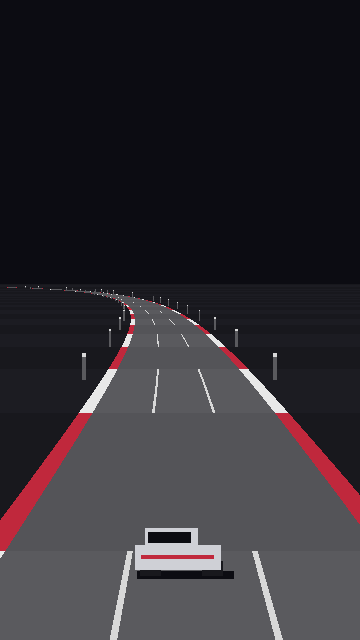
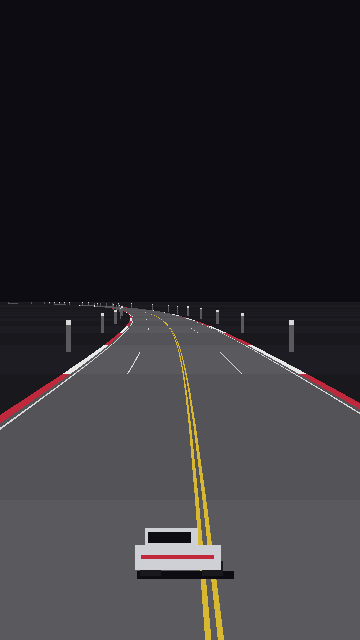
T24 WIP: low camera, 4 lanes, realistic markings, kerbs only in corners
Blocked: P7 continuity tolerance (0.067 > 0.05 px) and e2e ?tune= fovDeg 90
fail with height 320; see report.

diff --git a/src/render/roadMesh.ts b/src/render/roadMesh.ts
@@ -26,6 +26,17 @@ const RUMBLE_DARK = 9;
 const VERGE_LIGHT = 12;
 const VERGE_DARK = 15;
 const LANE = 18;
+const CENTRE = 21;
+const SHOULDER = 24;
+
+// Marking layout on top of the projection's RoadConfig; all sizes are fractions of halfWidth.
+export interface RoadMeshConfig extends RoadConfig {
+  laneDash: { on: number; off: number }; // segments painted / skipped per lane-line dash
+  centreGap: number; // gap between the two lines of the double centre line
+  edgeLineInset: number; // edge line distance from the asphalt edge
+  edgeLineWidth: number;
+  kerbMinCurve: number; // |curve| at or above which the kerb gets red/white colours
+}
 
 export function writeHex(out: Float32Array, at: number, hex: string): void {
   const v = parseInt(hex.slice(1), 16);
@@ -36,10 +47,12 @@ export function writeHex(out: Float32Array, at: number, hex: string): void {
 
 /**
  * Grey road: one dynamic BufferGeometry, one draw call.
- * Per strip n (between projected lines n and n+1): full-width verge, rumble bands
- * outside the asphalt edge (±w .. ±w(1+rumbleWidth)), asphalt ±w, lane markers on light stripes.
- * Verge overlaps everything and sits at the strip's depth; asphalt/rumble are one micro-step
- * nearer, markers two, so depth testing layers them without per-pixel sorting.
+ * Per strip n (between projected lines n and n+1): full-width verge, kerb bands outside the
+ * asphalt edge (±w .. ±w(1+rumbleWidth); red/white only where |curve| >= kerbMinCurve, shoulder
+ * colour elsewhere), asphalt ±w, solid edge lines, dashed lane lines and, with an even lane
+ * count, a solid double centre line.
+ * Verge overlaps everything and sits at the strip's depth; asphalt/kerb are one micro-step
+ * nearer, markings two, so depth testing layers them without per-pixel sorting.
  */
 export class RoadMesh {
   readonly mesh: Mesh<BufferGeometry, ShaderMaterial>;
@@ -47,7 +60,7 @@ export class RoadMesh {
   private readonly col: Float32Array;
   private readonly posAttr: BufferAttribute;
   private readonly colAttr: BufferAttribute;
-  private readonly rgb = new Float32Array(21);
+  private readonly rgb = new Float32Array(27);
   private readonly screenW: number;
   private readonly invW: number;
   private readonly invH: number;
@@ -57,10 +70,11 @@ export class RoadMesh {
   constructor(
     // horizon is read live in update() (dev tuning panel); drawDistance sizes the buffers here.
     private readonly camera: CameraConfig,
-    private readonly road: RoadConfig,
+    private readonly road: RoadMeshConfig,
     palette: Palette,
   ) {
-    const quadsPerSegment = 1 + 2 + 1 + (road.lanes - 1);
+    // verge, 2 kerbs, asphalt, 2 edge lines, lane lines (the centre one doubled)
+    const quadsPerSegment = 1 + 2 + 1 + 2 + road.lanes;
     const maxQuads = camera.drawDistance * quadsPerSegment;
     this.strips = camera.drawDistance;
     this.screenW = camera.screenWidth;
@@ -74,6 +88,8 @@ export class RoadMesh {
     writeHex(this.rgb, VERGE_LIGHT, palette.verge[0]!);
     writeHex(this.rgb, VERGE_DARK, palette.verge[1]!);
     writeHex(this.rgb, LANE, palette.lane);
+    writeHex(this.rgb, CENTRE, palette.centreLine);
+    writeHex(this.rgb, SHOULDER, palette.shoulder);
 
     this.pos = new Float32Array(maxQuads * 4 * 3);
     this.col = new Float32Array(maxQuads * 4 * 3);
@@ -107,6 +123,8 @@ export class RoadMesh {
     const road = this.road;
     const horizonY = this.camera.horizon * this.camera.screenHeight;
     const step = 2 / this.strips;
+    const dashPeriod = road.laneDash.on + road.laneDash.off;
+    const centreLane = road.lanes % 2 === 0 ? road.lanes / 2 : -1;
     const last = Math.min(proj.count - 1, this.strips);
     this.quads = 0;
     for (let n = 0; n < last; n++) {
@@ -127,17 +145,44 @@ export class RoadMesh {
 
       const r0 = w0 * road.rumbleWidth;
       const r1 = w1 * road.rumbleWidth;
-      const rumble = light ? RUMBLE_LIGHT : RUMBLE_DARK;
-      this.quad(x0 - w0 - r0, x0 - w0, y0, x1 - w1 - r1, x1 - w1, y1, zRoad, rumble);
-      this.quad(x0 + w0, x0 + w0 + r0, y0, x1 + w1, x1 + w1 + r1, y1, zRoad, rumble);
-      this.quad(x0 - w0, x0 + w0, y0, x1 - w1, x1 + w1, y1, zRoad, light ? ASPHALT_LIGHT : ASPHALT_DARK);
+      const corner = Math.abs(proj.curve[n]!) >= road.kerbMinCurve;
+      const kerb = corner ? (light ? RUMBLE_LIGHT : RUMBLE_DARK) : SHOULDER;
+      this.quad(x0 - w0 - r0, x0 - w0, y0, x1 - w1 - r1, x1 - w1, y1, zRoad, kerb);
+      this.quad(x0 + w0, x0 + w0 + r0, y0, x1 + w1, x1 + w1 + r1, y1, zRoad, kerb);
+      this.quad(
+        x0 - w0,
+        x0 + w0,
+        y0,
+        x1 - w1,
+        x1 + w1,
+        y1,
+        zRoad,
+        light ? ASPHALT_LIGHT : ASPHALT_DARK,
+      );
 
-      if (light) {
-        const h0 = (w0 * road.laneMarkerWidth) / 2;
-        const h1 = (w1 * road.laneMarkerWidth) / 2;
-        for (let lane = 1; lane < road.lanes; lane++) {
-          const c0 = x0 - w0 + (2 * w0 * lane) / road.lanes;
-          const c1 = x1 - w1 + (2 * w1 * lane) / road.lanes;
+      // Edge lines: inner side at inset + width from the asphalt edge.
+      const ei0 = w0 * (1 - road.edgeLineInset - road.edgeLineWidth);
+      const ei1 = w1 * (1 - road.edgeLineInset - road.edgeLineWidth);
+      const eo0 = w0 * (1 - road.edgeLineInset);
+      const eo1 = w1 * (1 - road.edgeLineInset);
+      this.quad(x0 - eo0, x0 - ei0, y0, x1 - eo1, x1 - ei1, y1, zMark, LANE);
+      this.quad(x0 + ei0, x0 + eo0, y0, x1 + ei1, x1 + eo1, y1, zMark, LANE);
+
+      const h0 = (w0 * road.laneMarkerWidth) / 2;
+      const h1 = (w1 * road.laneMarkerWidth) / 2;
+      const dash = proj.segment[n]! % dashPeriod < road.laneDash.on;
+      for (let lane = 1; lane < road.lanes; lane++) {
+        const c0 = x0 - w0 + (2 * w0 * lane) / road.lanes;
+        const c1 = x1 - w1 + (2 * w1 * lane) / road.lanes;
+        if (lane === centreLane) {
+          // Two lines, each laneMarkerWidth wide, centreGap apart.
+          const g0 = (w0 * road.centreGap) / 2;
+          const g1 = (w1 * road.centreGap) / 2;
+          const o0 = g0 + 2 * h0;
+          const o1 = g1 + 2 * h1;
+          this.quad(c0 - o0, c0 - g0, y0, c1 - o1, c1 - g1, y1, zMark, CENTRE);
+          this.quad(c0 + g0, c0 + o0, y0, c1 + g1, c1 + o1, y1, zMark, CENTRE);
+        } else if (dash) {
           this.quad(c0 - h0, c0 + h0, y0, c1 - h1, c1 + h1, y1, zMark, LANE);
         }
       }

diff --git a/tests/render/projection.test.ts b/tests/render/projection.test.ts
@@ -74,8 +74,8 @@ describe('P2 monotonic projection', () => {
     }
   });
   it('last line is within 5 px below the horizon (real config)', () => {
-    // f = 180/tan(40deg) = 214.5; d0 = 214.5*720/358.4 = 430.9
-    // n=300: dz = 430.9 + 300*200 = 60431; y-horizonY = 214.5*720/60431 = 2.56 px
+    // f = 180/tan(40deg) = 214.5; d0 = 214.5*320/339.2 = 202.4
+    // n=300: dz = 202.4 + 300*200 = 60202; y-horizonY = 214.5*320/60202 = 1.14 px
     const p = run(makeStraightTrack(50), 0, 0);
     const last = p.y[p.count - 1]! - horizonYReal;
     expect(last).toBeGreaterThan(0);
@@ -90,11 +90,11 @@ describe('P2 monotonic projection', () => {
 
 describe('P3 frac = 0 exact values', () => {
   it('y_0 = H and w_0 = halfWidth*(H-horizonY)/height (real config)', () => {
-    // w_0 = 500*(640-281.6)/720 = 248.8889 (author's playtest 2026-11-19: wider road, lower camera)
+    // w_0 = 500*(640-300.8)/320 = 530 (author's second feedback 2026-11-19: camera barely above the roof)
     const p = run(makeStraightTrack(50), 5, 0);
     near(p.y[0]!, CAM.screenHeight, 1e-3);
     near(p.w[0]!, (ROAD.halfWidth * (CAM.screenHeight - horizonYReal)) / CAM.height, 1e-3);
-    near(p.w[0]!, 248.8889, 1e-3);
+    near(p.w[0]!, 530, 1e-3);
   });
   it('inline config hand values', () => {
     // dz_n = 200 + 100n; scale_n = 100/dz_n; y = 50 + scale*100; w = scale*40

diff --git a/src/data/render.ts b/src/data/render.ts
@@ -1,5 +1,6 @@
-import type { CameraConfig, RoadConfig } from '../render/projection';
+import type { CameraConfig } from '../render/projection';
 import type { RibbonMapRenderConfig } from '../render/ribbonMapMesh';
+import type { RoadMeshConfig } from '../render/roadMesh';
 import type { SpritesConfig } from '../render/worldSprites';
 import camera from './camera.json';
 import palette from './palette.json';
@@ -13,6 +14,8 @@ export interface Palette {
   asphalt: string[];
   rumble: string[];
   lane: string;
+  centreLine: string;
+  shoulder: string;
   verge: string[];
   player: string;
   carShadow: string;
@@ -31,7 +34,7 @@ export interface Palette {
 }
 
 export const cameraConfig: CameraConfig = camera;
-export const roadConfig: RoadConfig = road;
+export const roadConfig: RoadMeshConfig = road;
 export const paletteConfig: Palette = palette;
 export const spritesConfig: SpritesConfig = sprites;
 export const ribbonMapConfig: RibbonMapRenderConfig = ribbonMap;

diff --git a/src/render/projection.ts b/src/render/projection.ts
@@ -28,6 +28,7 @@ export interface Projection {
   w: Float32Array; // road half-width on screen, px
   scale: Float32Array; // px per world unit
   segment: Int32Array; // wrapped track segment index of this line
+  curve: Float32Array; // curve of that track segment
 }
 
 function focalPx(camera: CameraConfig): number {
@@ -58,6 +59,7 @@ export function createProjection(camera: CameraConfig, road: RoadConfig): Projec
     w: new Float32Array(n),
     scale: new Float32Array(n),
     segment: new Int32Array(n),
+    curve: new Float32Array(n),
   };
 }
 
@@ -89,6 +91,7 @@ export function project(
     const seg = (base + n) % len;
     const scale = f / (d0 + (n - frac) * road.segmentLength);
     out.segment[n] = seg;
+    out.curve[n] = segs[seg]!.curve;
     out.scale[n] = scale;
     out.y[n] = horizonY + scale * camera.height;
     out.w[n] = scale * road.halfWidth;

diff --git a/docs/balance.md b/docs/balance.md
@@ -59,3 +59,14 @@
 | 2026-11-19 | `sprites.json`: `smokeSize`, `smokeGrow`, `smokeShrink`, `smokeBack`, `smokeRise`, `smokeSpread`, `smokeWheelX`, `smokeJitter` | — | 0.16, 1.4, 0.7, 1.6, 0.6, 0.7, 0.36, 0.1 [старт] | R24: облачко 0.16 ширины машины растёт до ×2.4, после 70% жизни сжимается в 0, уходит назад/вниз по экрану, вверх и наружу дрифта; 0.3 / 1.5 давали сплошную серую плиту под машиной; директор 2026-11-19 | скриншот `drift-right` |
 | 2026-11-19 | `palette.json`: `smoke` | — | #a8a8ae [старт] | R24: дым светло-серый, темнее белого поребрика (#e8e8e8) и машины (#cfd0d6) | скриншот `drift-right` |
 | 2026-11-19 | `tunables.json`: новые `input.touch.autoDriftSteer`, `input.touch.autoDriftRelease`, `sprites.drift.yawMax`, `sprites.drift.yawMin`, `sprites.drift.cameraOffset`, флаг `sprites.drift.smoke` on/off | — | стартовые диапазоны | H3 C и R24 настраиваются в dev-панели | тесты `tests/dev` |
+| 2026-11-19 | `camera.json`: `height` | 720 | 320 | второй отзыв автора 2026-11-19 (сравнение со Slipstream): камера чуть выше крыши машины, дорога шире экрана; 340 из постановки давали 404.7 px, цель 420–450; ниже 317 при FOV 80 и горизонте 0.47 `d0` < `segmentLength` (линия 0 за камерой) | полуширина дороги на уровне низа машины (y = 576) = 500·(576−300.8)/320 = 430 px при половине экрана 180 (дорога шире экрана в 2.4 раза), полоса 215 px; внизу кадра `w0` = 530 px; `d0` = 202.4; скриншоты `straight`, `curve-left` |
+| 2026-11-19 | `camera.json`: `horizon` | 0.44 | 0.47 | второй отзыв автора 2026-11-19: горизонт ближе к середине экрана, y = 300.8 px из 640 | скриншот `straight` |
+| 2026-11-19 | `road.json`: `lanes` | 3 | 4 | второй отзыв автора 2026-11-19: четыре полосы, как в Slipstream; осевая между 2-й и 3-й полосой — двойная сплошная | скриншот `straight` |
+| 2026-11-19 | `road.json`: `rumbleWidth` | 0.15 | 0.07 | второй отзыв автора 2026-11-19: бордюр уже и только в поворотах (см. `kerbMinCurve`), на прямых — полоса цвета `shoulder` | 30 px у машины; скриншоты `straight`, `curve-left` |
+| 2026-11-19 | `road.json`: `laneMarkerWidth` | 0.03 | 0.012 | второй отзыв автора 2026-11-19: разметка тонкая, реалистичная; ширина одной линии, в том числе каждой из двух линий осевой | ≈5 px у машины; скриншот `straight` |
+| 2026-11-19 | `road.json`: `laneDash` | — | on 2 / off 4 сегмента [старт] | второй отзыв автора 2026-11-19: прерывистые линии полос, разрыв длиннее штриха | скриншот `straight` |
+| 2026-11-19 | `road.json`: `centreGap` | — | 0.012 [старт] | второй отзыв автора 2026-11-19: зазор между линиями двойной осевой | скриншот `straight` |
+| 2026-11-19 | `road.json`: `edgeLineInset` / `edgeLineWidth` | — | 0.03 / 0.015 [старт] | второй отзыв автора 2026-11-19: сплошная белая краевая линия, отступ от края асфальта | скриншот `straight` |
+| 2026-11-19 | `road.json`: `kerbMinCurve` | — | 1 [старт] | второй отзыв автора 2026-11-19: красно-белый бордюр только на сегментах с \|curve\| ≥ 1 (easy 1.25 уже с бордюром) | скриншоты `curve-left`, `curve-right` |
+| 2026-11-19 | `palette.json`: `centreLine` / `shoulder` | — | #d8b830 / #2a2a31 [старт] | второй отзыв автора 2026-11-19: жёлтая двойная осевая; обочина на прямых чуть светлее земли (#1c1c22) | скриншот `straight` |
+| 2026-11-19 | `tunables.json`: `camera.height` диапазон | 650…1600 | 320…1600; `camera.fovDeg` 60…100 → 60…80; `camera.horizon` 0.25…0.5 → 0.465…0.5 | второй отзыв автора 2026-11-19: 320 должно входить в диапазон; тест углов диапазона требует `d0` > `segmentLength` во всех углах — при высоте 320 это возможно только при FOV ≤ 80 и горизонте ≥ 0.464 | тесты `tests/dev`; e2e `?tune=` с `camera.fovDeg` 90 падает (вне диапазона) |

diff --git a/docs/art-bible.md b/docs/art-bible.md
@@ -6,7 +6,7 @@
 Dark Psychedelic Arcade Racing. Референсы: Vermis, LSD: Dream Emulator — слои 0–2; Killer7 (плоские заливки, 2–3 тона на объект) — слои 2–4; Wipeout — знаки, шевроны и HUD как единая графическая система.
 
 ## Правила читаемости [старт]
-- Дорога — средний тон. Rumble-полосы — самые светлые и насыщенные пиксели кадра.
+- Дорога — средний тон, разметка тонкая и реалистичная (второй отзыв автора 2026-11-19): прерывистые белые линии полос, двойная жёлтая осевая, сплошная белая краевая. Красно-белый бордюр — только в поворотах (|curve| ≥ `kerbMinCurve`), там он самые светлые и насыщенные пиксели кадра; на прямых вместо него тёмная обочина.
 - Окружение тёмное, низконасыщенное. 2–3 кислотных цвета зарезервированы под геймплей: соперники, шевроны, буст.
 - Тест: чёрно-белый скриншот на скорости читается как «дорога, край, машины».
 - Внутреннее разрешение 360×640, nearest-апскейл.
@@ -15,9 +15,11 @@ Dark Psychedelic Arcade Racing. Референсы: Vermis, LSD: Dream Emulator 
 | Роль | Цвет |
 | --- | --- |
 | Асфальт (чередование) | `#5a5a5e` / `#545458` |
-| Rumble | `#e8e8e8` / `#c0283c` |
-| Разметка | `#d8d8d8` |
-| Обочина | `#1c1c22` / `#18181d` |
+| Бордюр (только в поворотах) | `#e8e8e8` / `#c0283c` |
+| Обочина на прямых (полоса бордюра) | `#2a2a31` |
+| Разметка (полосы, края) | `#d8d8d8` |
+| Двойная осевая | `#d8b830` |
+| Земля за дорогой | `#1c1c22` / `#18181d` |
 | Небо | `#0c0c12` |
 | Игрок | `#cfd0d6` |
 | Соперники (кислотный акцент) | `#b4ff39`, `#ff3df0`, `#39e6ff` |
